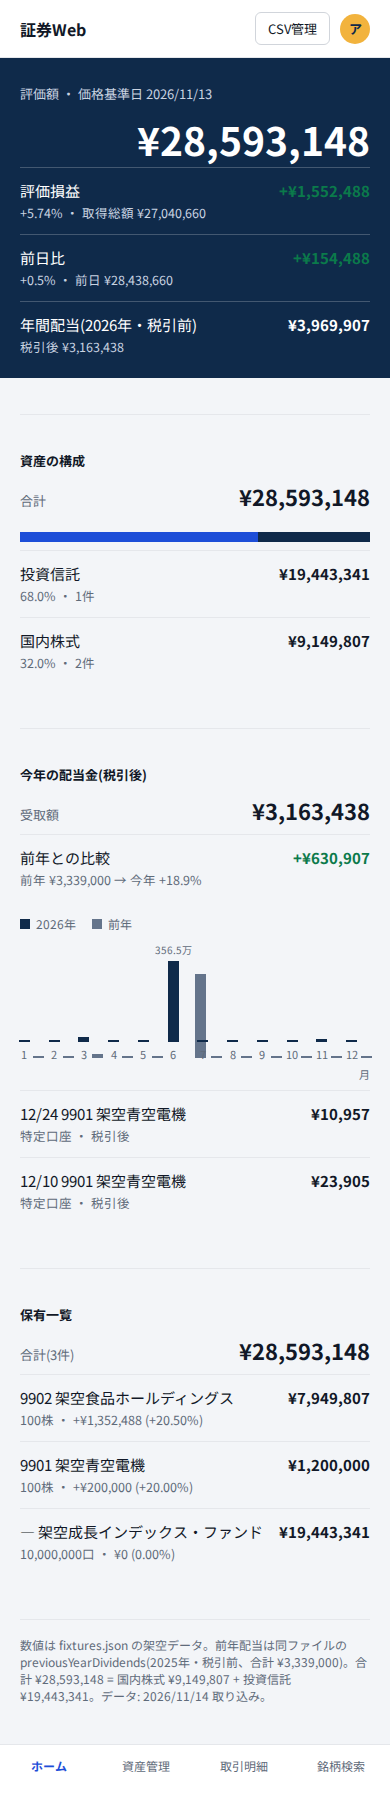
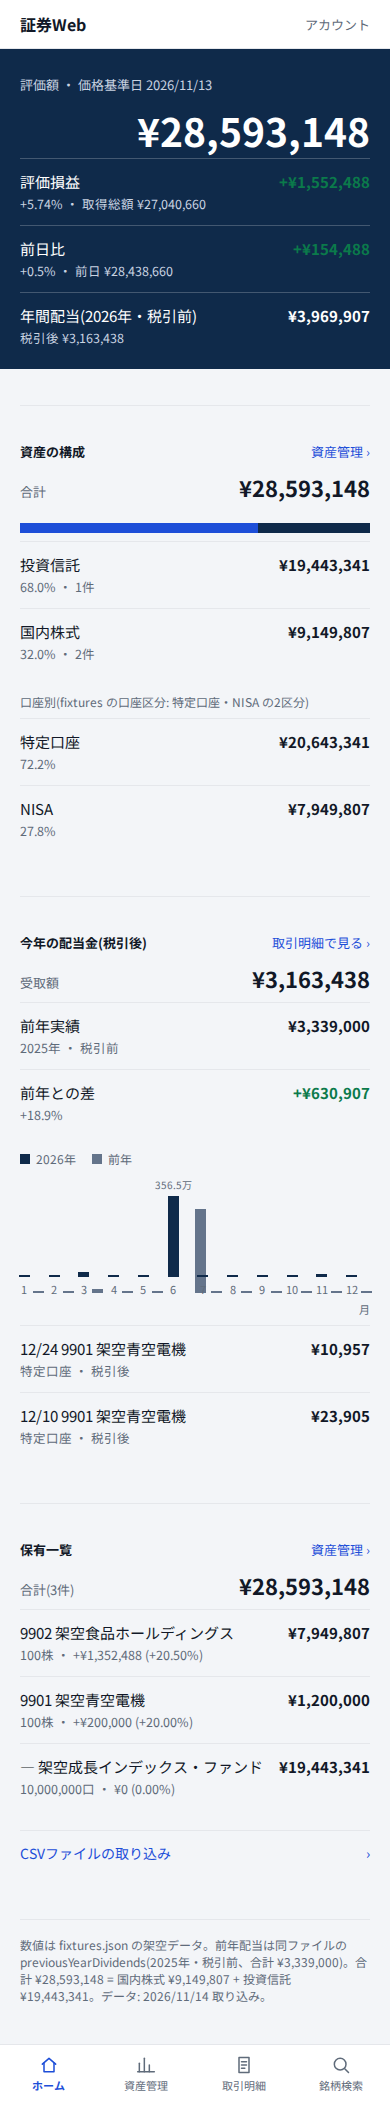
design: 案5に現行の良い所採用・悪い所不採用を反映
Refs #1890

diff --git a/docs/design/work/phase8-visual/idea5-current-color.html b/docs/design/work/phase8-visual/idea5-current-color.html
@@ -47,8 +47,7 @@ body{margin:0; background:var(--page); color:var(--ink);
 .top .row1{display:flex; align-items:center; justify-content:space-between; gap:12px; padding:12px 0}
 .top .brand{font-weight:700; white-space:nowrap}
 .top .ops{display:flex; align-items:center; gap:10px}
-.top .csv{font-size:13px; border:1px solid var(--btn-border); border-radius:6px; padding:6px 12px; white-space:nowrap; background:transparent; color:var(--ink)}
-.top .avatar{width:30px; height:30px; border-radius:50%; background:var(--gold); color:var(--band); font-size:13px; font-weight:700; display:flex; align-items:center; justify-content:center; flex:none}
+.top .account{font-size:13px; color:var(--mut); white-space:nowrap}
 .top nav{display:flex; gap:20px; font-size:14px; padding-bottom:10px}
 .top nav span{white-space:nowrap; color:var(--mut)}
 .top nav .here{color:var(--ink); font-weight:700; border-bottom:2px solid var(--gold); padding-bottom:8px}
@@ -67,6 +66,9 @@ body{margin:0; background:var(--page); color:var(--ink);
 /* idea4 の型: 見出し→要約→明細 */
 section{padding:36px 0 8px; border-top:1px solid var(--line); margin-top:36px}
 section h2{font-size:13px; font-weight:700; margin:0; white-space:nowrap}
+.hrow{display:flex; justify-content:space-between; align-items:baseline; gap:16px}
+.hrow .more{font-size:13px; color:var(--accent); white-space:nowrap}
+.cap{font-size:12px; color:var(--mut); margin:18px 0 0}
 .sum{display:flex; justify-content:space-between; align-items:baseline; gap:16px; margin:10px 0 0}
 .sum .label{font-size:13px; color:var(--mut); white-space:nowrap}
 .sum .amt{font-size:22px; font-weight:700; white-space:nowrap;
@@ -95,12 +97,13 @@ section h2{font-size:13px; font-weight:700; margin:0; white-space:nowrap}
 .bars .m{font-size:11px; color:var(--mut)}
 .m-axis{text-align:right; font-size:11px; color:var(--mut); margin-top:4px}
 .foot{margin-top:36px; padding-top:16px; border-top:1px solid var(--line); color:var(--mut); font-size:12px}
+.entry{display:flex; justify-content:space-between; align-items:center; gap:16px; margin-top:20px; padding:12px 0; border-top:1px solid var(--line); font-size:14px; color:var(--accent); white-space:nowrap}
 /* 現行の下ナビ(スマホだけ)。静的htmlの撮影で写り込まないようフロー配置 */
 .bottomnav{display:none}
 @media(max-width:720px){
   .top nav{display:none}
   .bottomnav{display:flex; background:var(--surface); border-top:1px solid var(--line)}
-  .bottomnav span{flex:1; text-align:center; font-size:12px; padding:12px 0 20px; color:var(--mut); white-space:nowrap}
+  .bottomnav span{flex:1; display:flex; flex-direction:column; align-items:center; gap:2px; text-align:center; font-size:11px; padding:10px 0 16px; color:var(--mut); white-space:nowrap}
   .bottomnav .here{color:var(--accent); font-weight:700}
   .wrap{padding-bottom:40px}
 }
@@ -108,7 +111,7 @@ section h2{font-size:13px; font-weight:700; margin:0; white-space:nowrap}
 </head>
 <body>
 <header class="top"><div class="inner">
-  <div class="row1"><span class="brand">証券Web</span><span class="ops"><span class="csv">CSV管理</span><span class="avatar">ア</span></span></div>
+  <div class="row1"><span class="brand">証券Web</span><span class="ops"><span class="account">アカウント</span></span></div>
   <nav><span class="here">ホーム</span><span>資産管理</span><span>取引明細</span><span>銘柄検索</span></nav>
 </div></header>
 
@@ -122,20 +125,26 @@ section h2{font-size:13px; font-weight:700; margin:0; white-space:nowrap}
 
 <div class="wrap">
   <section>
-    <h2>資産の構成</h2>
+    <div class="hrow"><h2>資産の構成</h2><span class="more">資産管理 ›</span></div>
     <div class="sum"><span class="label">合計</span><span class="amt">¥28,593,148</span></div>
     <div class="bar100"><span class="a"></span><span class="b"></span></div>
     <div class="rows">
       <div class="row"><div class="left"><div class="name">投資信託</div><span class="sub">68.0% ・ 1件</span></div><span class="amt">¥19,443,341</span></div>
       <div class="row"><div class="left"><div class="name">国内株式</div><span class="sub">32.0% ・ 2件</span></div><span class="amt">¥9,149,807</span></div>
     </div>
+    <p class="cap">口座別(fixtures の口座区分: 特定口座・NISA の2区分)</p>
+    <div class="rows">
+      <div class="row"><div class="left"><div class="name">特定口座</div><span class="sub">72.2%</span></div><span class="amt">¥20,643,341</span></div>
+      <div class="row"><div class="left"><div class="name">NISA</div><span class="sub">27.8%</span></div><span class="amt">¥7,949,807</span></div>
+    </div>
   </section>
 
   <section>
-    <h2>今年の配当金(税引後)</h2>
+    <div class="hrow"><h2>今年の配当金(税引後)</h2><span class="more">取引明細で見る ›</span></div>
     <div class="sum"><span class="label">受取額</span><span class="amt">¥3,163,438</span></div>
     <div class="rows">
-      <div class="row"><div class="left"><div class="name">前年との比較</div><span class="sub">前年 ¥3,339,000 → 今年 +18.9%</span></div><span class="amt up">+¥630,907</span></div>
+      <div class="row"><div class="left"><div class="name">前年実績</div><span class="sub">2025年 ・ 税引前</span></div><span class="amt">¥3,339,000</span></div>
+      <div class="row"><div class="left"><div class="name">前年との差</div><span class="sub">+18.9%</span></div><span class="amt up">+¥630,907</span></div>
     </div>
     <div class="legend"><span><span class="sw" style="background:var(--bar-cur)"></span>2026年</span><span><span class="sw" style="background:var(--bar-prev)"></span>前年</span></div>
     <div class="bars">
@@ -160,19 +169,25 @@ section h2{font-size:13px; font-weight:700; margin:0; white-space:nowrap}
   </section>
 
   <section>
-    <h2>保有一覧</h2>
+    <div class="hrow"><h2>保有一覧</h2><span class="more">資産管理 ›</span></div>
     <div class="sum"><span class="label">合計(3件)</span><span class="amt">¥28,593,148</span></div>
     <div class="rows">
       <div class="row"><div class="left"><div class="name">9902 架空食品ホールディングス</div><span class="sub">100株 ・ +¥1,352,488 (+20.50%)</span></div><span class="amt">¥7,949,807</span></div>
       <div class="row"><div class="left"><div class="name">9901 架空青空電機</div><span class="sub">100株 ・ +¥200,000 (+20.00%)</span></div><span class="amt">¥1,200,000</span></div>
       <div class="row"><div class="left"><div class="name">— 架空成長インデックス・ファンド</div><span class="sub">10,000,000口 ・ ¥0 (0.00%)</span></div><span class="amt">¥19,443,341</span></div>
     </div>
+    <div class="entry"><span>CSVファイルの取り込み</span><span>›</span></div>
   </section>
 
   <div class="foot">数値は fixtures.json の架空データ。前年配当は同ファイルの previousYearDividends(2025年・税引前、合計 ¥3,339,000)。合計 ¥28,593,148 = 国内株式 ¥9,149,807 + 投資信託 ¥19,443,341。データ: 2026/11/14 取り込み。</div>
 </div>
 
-<nav class="bottomnav"><span class="here">ホーム</span><span>資産管理</span><span>取引明細</span><span>銘柄検索</span></nav>
+<nav class="bottomnav">
+<span class="here"><svg width="20" height="20" viewBox="0 0 24 24" fill="none" stroke="currentColor" stroke-width="1.8" stroke-linecap="round" stroke-linejoin="round"><path d="M4 11l8-7 8 7"/><path d="M6 10v10h12V10"/></svg>ホーム</span>
+<span><svg width="20" height="20" viewBox="0 0 24 24" fill="none" stroke="currentColor" stroke-width="1.8" stroke-linecap="round" stroke-linejoin="round"><path d="M4 20V10"/><path d="M10 20V4"/><path d="M16 20v-8"/><path d="M22 20H2"/></svg>資産管理</span>
+<span><svg width="20" height="20" viewBox="0 0 24 24" fill="none" stroke="currentColor" stroke-width="1.8" stroke-linecap="round" stroke-linejoin="round"><path d="M6 3h12v18H6z"/><path d="M9 8h6M9 12h6M9 16h4"/></svg>取引明細</span>
+<span><svg width="20" height="20" viewBox="0 0 24 24" fill="none" stroke="currentColor" stroke-width="1.8" stroke-linecap="round" stroke-linejoin="round"><circle cx="11" cy="11" r="7"/><path d="M16.5 16.5L21 21"/></svg>銘柄検索</span>
+</nav>
 <script>
 try{const t=new URLSearchParams(location.search).get('theme');if(t)document.documentElement.dataset.theme=t;}catch(e){}
 </script>

diff --git a/docs/design/work/phase8-visual/README.md b/docs/design/work/phase8-visual/README.md
@@ -53,6 +53,25 @@ Phase 5 の見本に対し「全体の雰囲気・見た目が悪い」との判
 3案への指摘(すらすら読めない・数字と色がガタガタ)を受け、1案に絞った作り直し。上記8規則のとおり: 縦1列・全セクション同型・全明細同行型・金額右端一本線・黒灰+緑赤+緑濃淡のみ・Noto Sans JP 400/700。
 現行からの変更は冒頭「現行の画面から変わった点」3点のとおり。
 
+## 現行から採用したもの/やめたもの(案5)
+
+統合担当の仕分け(現行 = `before/current-home-mobile-light.png`)を案5に反映した表。
+
+| 現行の要素 | 採用/不採用 | 案5での扱い |
+|---|---|---|
+| 紺帯に評価額と評価損益をまとめ、開いてすぐ大事な数字が見える | 採用 | `.band`(紺 `#0f2a4a`)に評価額の大数字+評価損益/前日比/年間配当の行 |
+| 価格基準日を評価額の近くに出す | 採用 | 帯のキッカー「評価額 ・ 価格基準日 2026/11/13」 |
+| 今年と前年を並べる棒グラフ | 採用 | 今年(`chart-1`)と前年(`chart-previous`)の2本並び。月ラベルは数字のみ(割れなし)、値ラベルは6月だけ |
+| セクション見出し右の詳しい画面への入口 | 採用 | `.hrow .more`(青 `#1d4ed8`): 構成→資産管理›、配当→取引明細で見る›、保有→資産管理› |
+| 口座別の内訳(特定・旧NISA・NISAつみたて・NISA成長) | 採用(区分は fixtures に合わせる) | 構成セクションに口座別2行(特定口座 ¥20,643,341・72.2% / NISA ¥7,949,807・27.8%)。fixtures の口座区分は特定口座/NISAの2区分のため、4区分表示は口座データ拡充後に拡張 |
+| 下ナビ(アイコン+文字、4項目) | 採用 | スマホのみ表示の `.bottomnav` に単純な線アイコン+文字。撮影写り込み回避のためフロー配置(末尾) |
+| CSV管理ボタンが帯に詰め込まれている | 不採用 | 帯・ヘッダーから外し、保有一覧末尾に「CSVファイルの取り込み ›」(`.entry`)を1行だけ置く。理由: 帯は数字に集中させ、取り込み操作はデータを使う資産管理の文脈に寄せる。ヘッダー常駐は毎回目に入り窮屈になるため |
+| アカウント丸アイコンと開閉丸ボタンで帯が窮屈 | 不採用 | 帯に置かずヘッダー右に控えめな「アカウント」文字だけ |
+| 「1611%」の達成率と細長い進捗バー | 不採用 | 受取額 ¥3,163,438・前年実績 ¥3,339,000・差 +¥630,907(+18.9%)を素直に3行で並べ、比率バーなし |
+| 口座別の色札凡例の折返し | 不採用 | 口座別も行の型(名前 左/金額・率 右)にそろえ、色札なし |
+| 円グラフ | 不採用 | 現行の青/紺のまま1本の横棒(68.0%/32.0%)に置換 |
+| 余白不均一・カード詰まり | 不採用 | idea4 の均一セクション間隔・カードなしを維持 |
+
 ## 案5 現行色(`idea5-current-color.html`)
 
 案4の型(縦1列・同型セクション・同行型明細・右端一本線・3段文字・改行なし)は保ち、色と配当の出し方と操作だけ現行に戻した。
